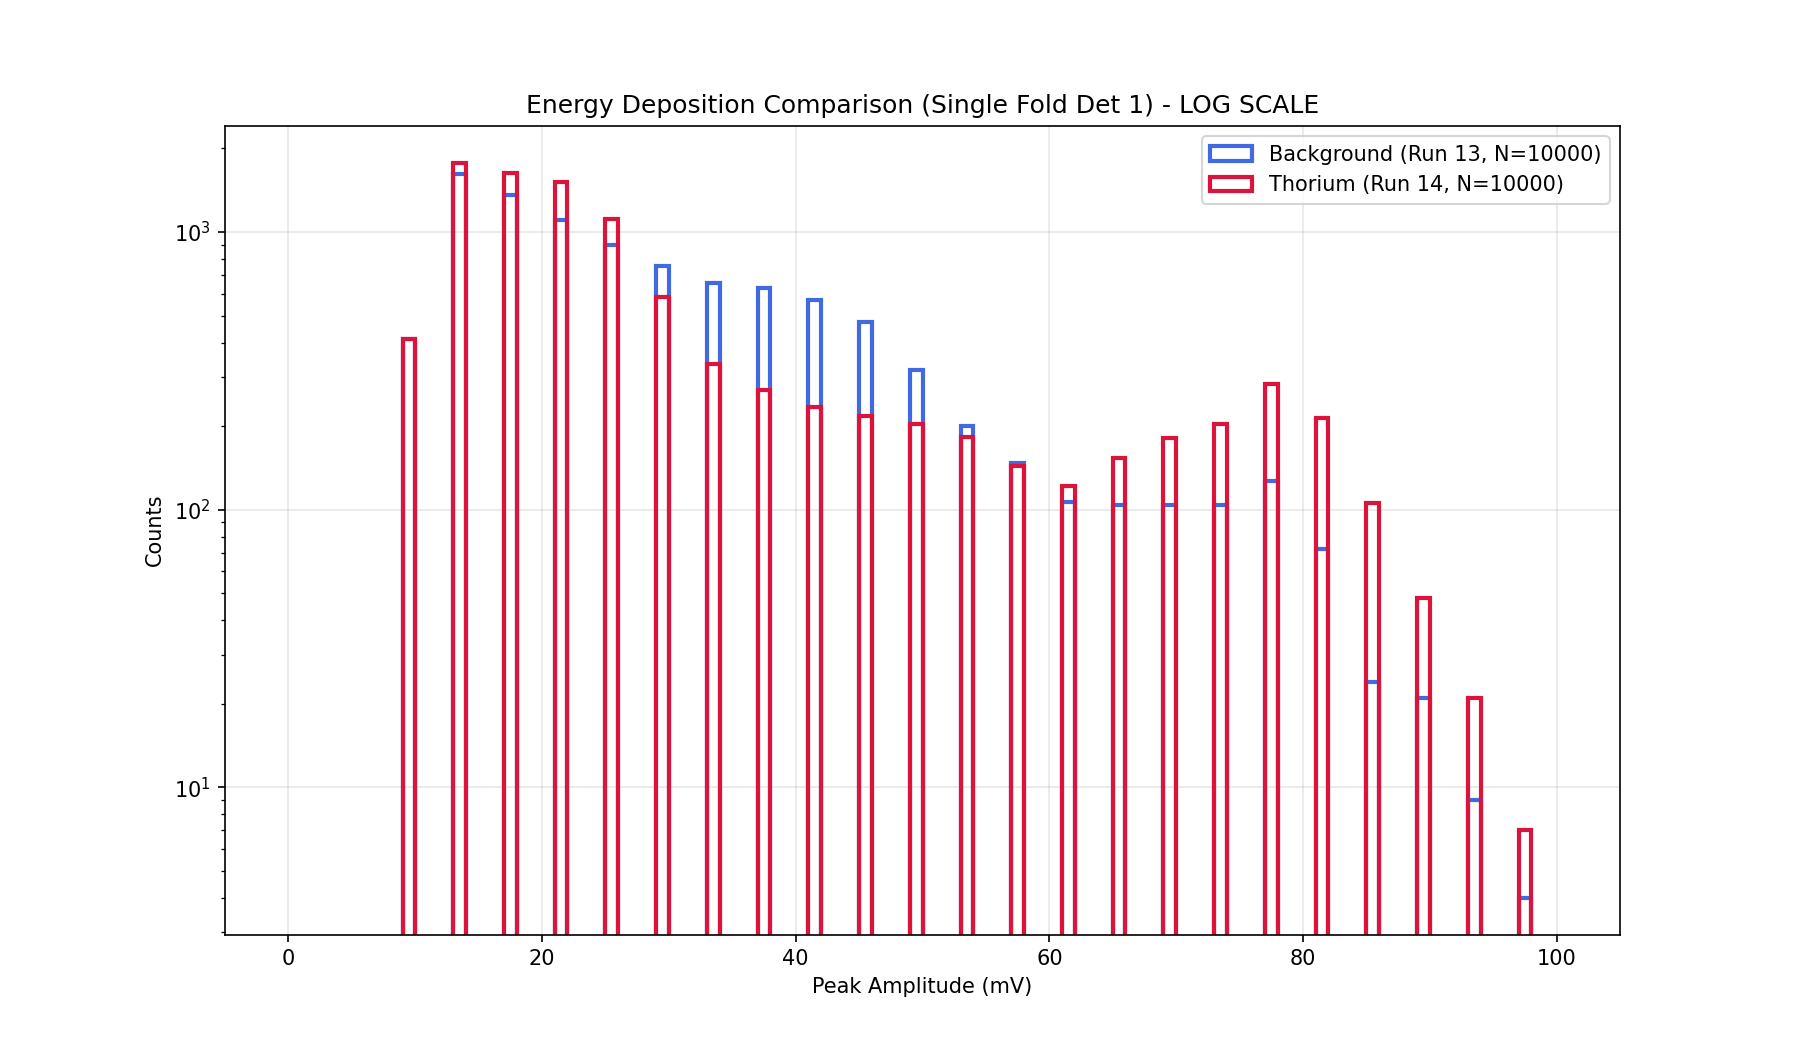
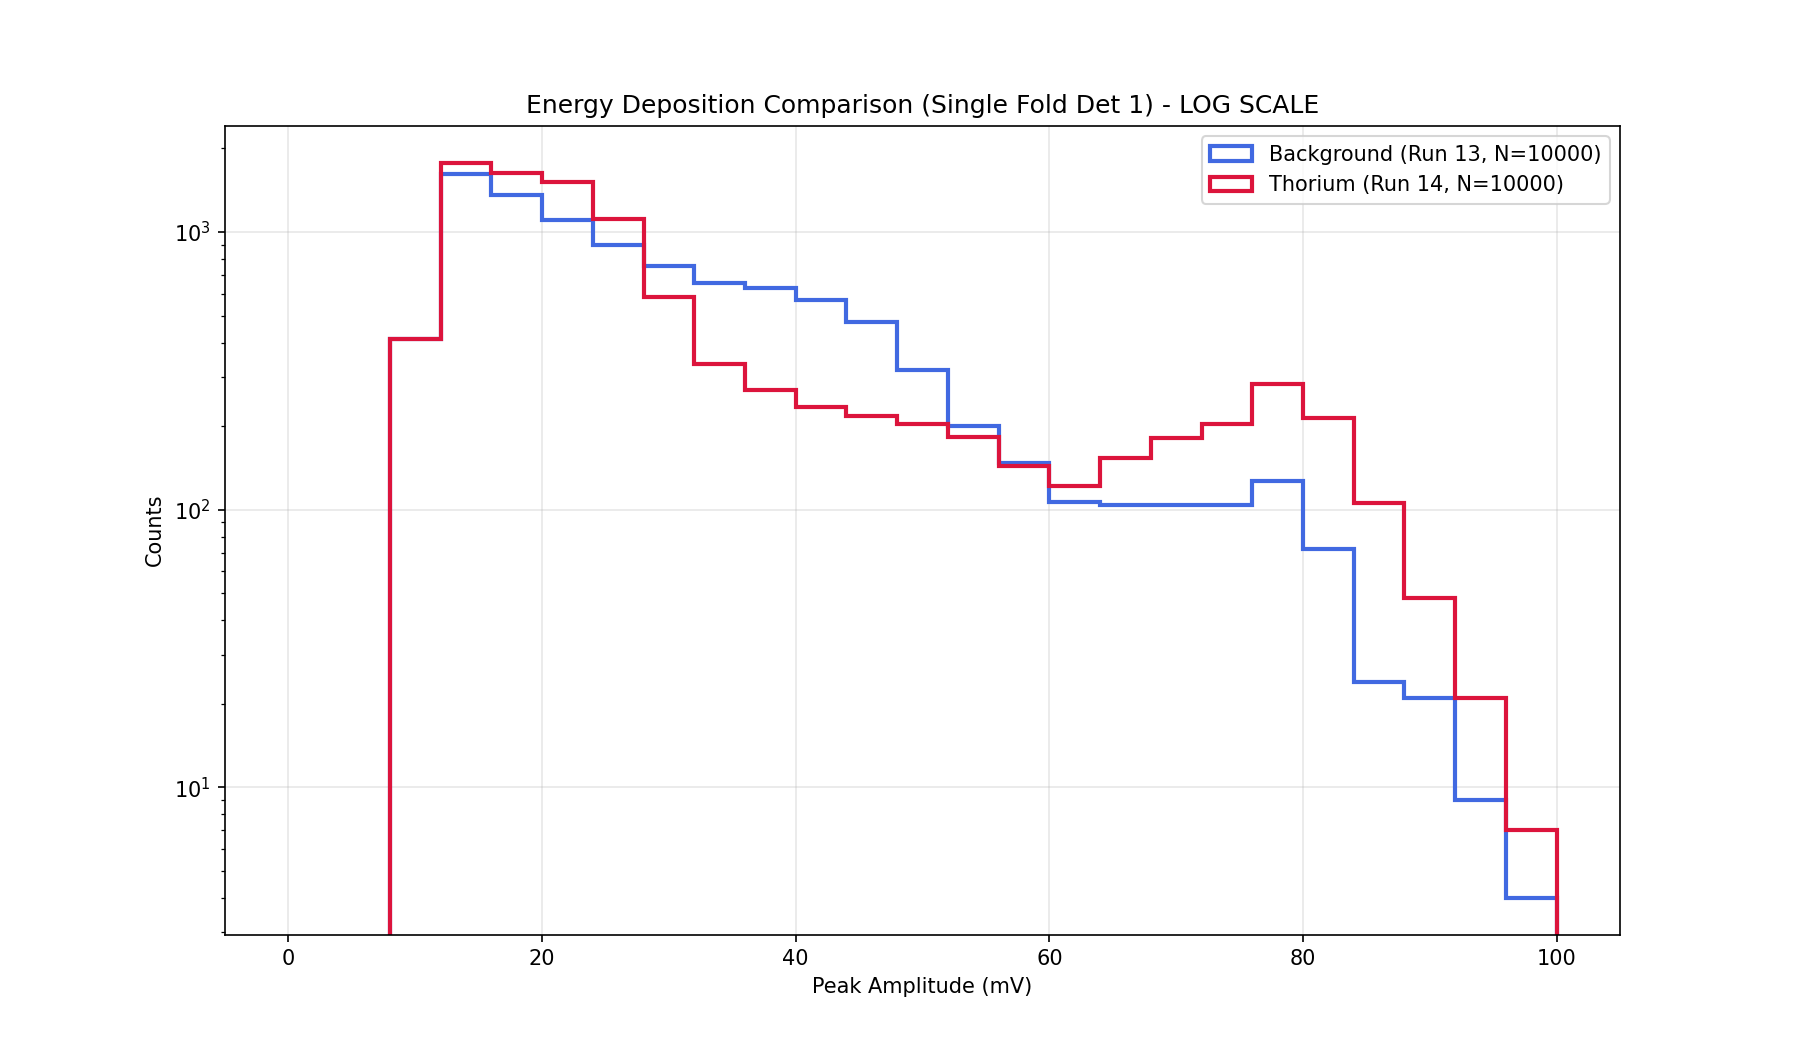
Analysis: Use 4mV bins in Thorium comparison to match data resolution

Changed region(s): [[0.2178, 0.1524, 0.8711, 0.8838]]

diff --git a/analysis/compare_13_14.py b/analysis/compare_13_14.py
@@ -34,8 +34,10 @@ def main():
 
     plt.figure(figsize=(12, 7))
     
-    # Range: 0 to 100 mV with 1 mV bin width to smooth quantization effects
-    bins = np.linspace(0, 100, 101)
+    # Range: 0 to 100 mV
+    # Using 4 mV bin width to match the digitization resolution (100mV/div on 8-bit ADC)
+    # This prevents 'empty bin' artifacts.
+    bins = np.arange(0, 104, 4)
     
     plt.hist(amps_13, bins=bins, histtype='step', linewidth=2, 
              color='royalblue', label=f'Background (Run 13, N={len(amps_13)})')
